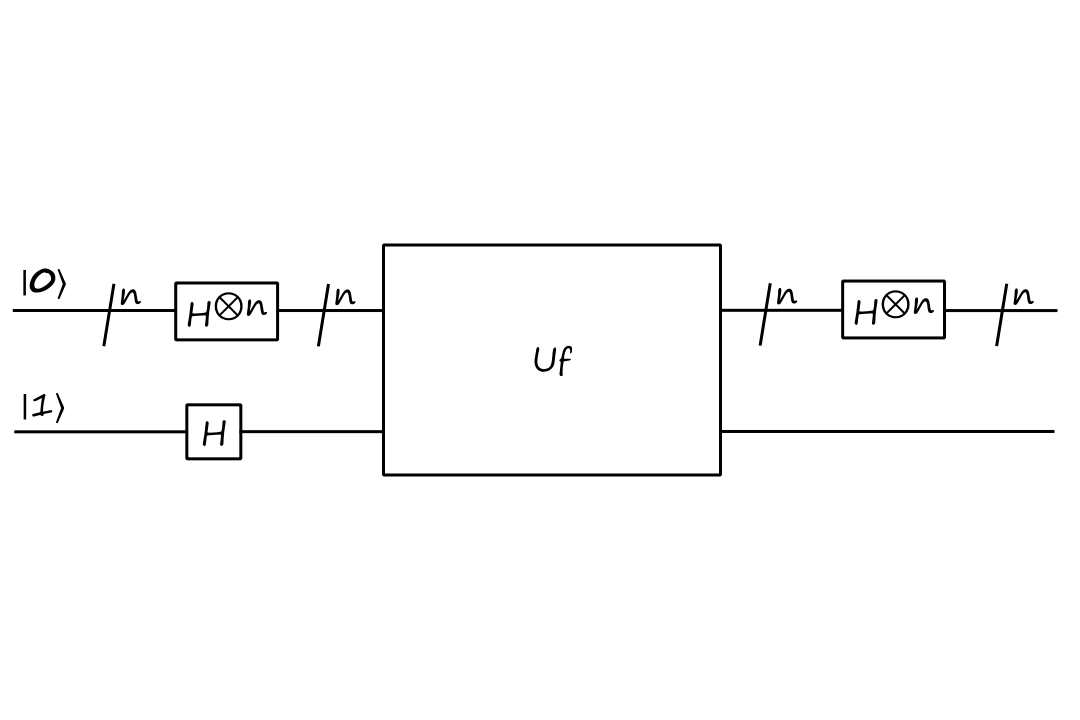
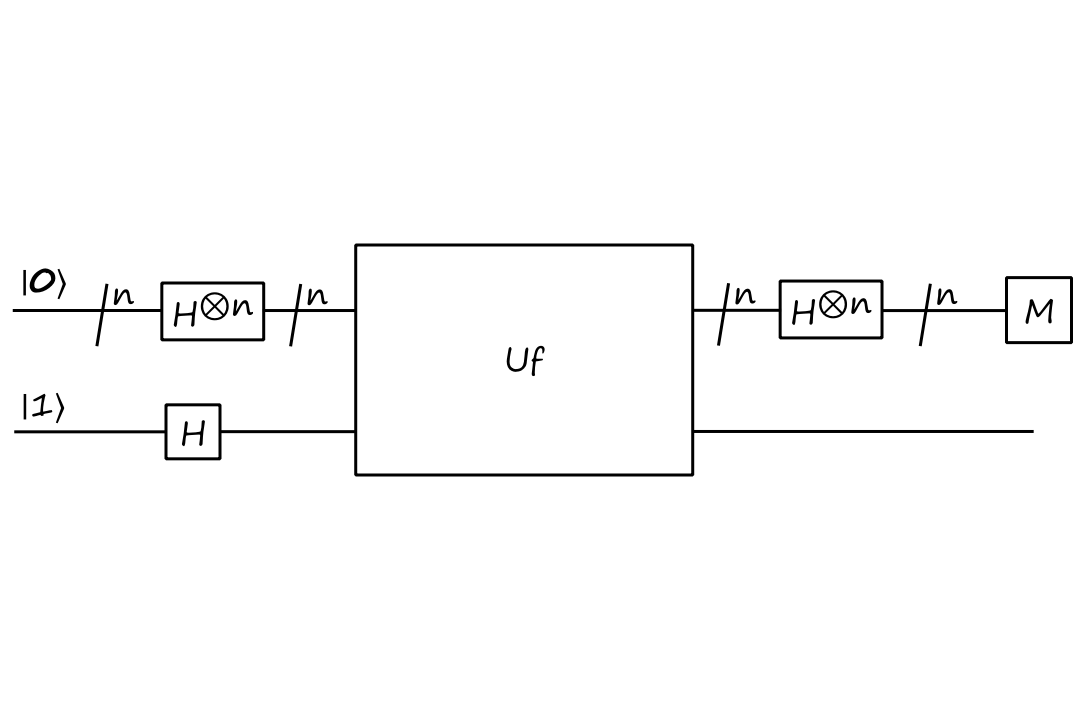
update quantum

diff --git a/projects/quantum.html b/projects/quantum.html
@@ -864,6 +864,7 @@
         <p>So `|psi:)` cannot be rewritten as the tensor product of the two subsystems.</p>
       </div>
       <h2 id="quantumalgorithms">Quantum Algorithms</h2>
+      <p>For this section, I'll be using a boxed `M` in the diagrams to represent the measurement operator.</p>
       <h3>Deutsch's Algorithm</h3>
       <p>Consider a function `f:{0,1}mapsto{0,1}`. We say that the function is balanced if `f(0)nef(1)` and constant if `f(0)=f(1)`. Suppose that we wanted to know for any given `f`, if it is balanced or constant.</p>
       <p>Of course, with classical computers, we can easily see if any function is balanced or constant. We simply evaluate `f(0)` and then `f(1)`. But this requires `f` to be evaluated twice. With quantum computers, we can do better.</p>
@@ -1259,9 +1260,18 @@
       </div>
       <p>So if `f` is balanced, the probability that the top `n` qubits collapse to state `|bb0:)` is `0`.</p>
       <p>How do we apply these results for the algorithm? If we measure the top `n` qubits and they're in the state `|bb0:)`, then `f` is constant. If they're in any state other than `|bb0:)`, then the function is balanced.</p>
+      <div class="ln-box">
+        <h3>Updated Identities</h3>
+        <ul>
+          <li><p>`|0:)oplusf(a)-``|1:)oplus``f(a)=(-1)^(f(a))``(``|0:)-``|1:))`</p></li>
+          <li><p>`U_f``|x:)H``|1:)=``(-1)^(f(x))``|x:)H``|1:)`</p></li>
+          <li><p>`H^(otimesn)``|bb0:)=``1/sqrt(2^n)sum_(bbx in{0,1}^n)``|bbx:)`</p></li>
+          <li><p>`H^(otimesn)``|bbx:)=``1/sqrt(2^n)sum_(bbz in {0,1}^n)(-1)^((:bbx,bbz:))``|bbz:)`</p></li>
+        </ul>
+      </div>
       <h3>Simon's Algorithm</h3>
       <p>Moving away from constant and balanced functions, we'll now look at something different.</p>
-      <p>Let's consider a function `f:{0,1}^n mapsto {0,1}^n`. Suppose there exists a binary string `bbc=c_0c_1...c_(n-1)` such that for all strings `bbx,bby in {0,1}^n`, we have `f(bbx)=f(bby)` if and only if `bby=bbxoplusbbc`. The goal of Simon's algorithm is to find out what `bbc` is.</p>
+      <p>Let's consider a function `f:{0,1}^n mapsto {0,1}^n`. Suppose there exists a secret binary string `bbc=c_0c_1...c_(n-1)` such that for all strings `bbx,bby in {0,1}^n`, we have `f(bbx)=f(bby)` if and only if `bby=bbxoplusbbc`. The goal of Simon's algorithm is to find out what `bbc` is.</p>
       <p>Well, okay, what does this problem even mean in the first place? Let's look at an example with `n=2`.</p>
       <p>Suppose we're given these values in the table below. The rule is that all `bbx` entries that have the same `f(bbx)` values are related to each other.</p>
       <table class="table ln-center">
@@ -1288,7 +1298,9 @@
       </table>
       <p>So `00` and `10` are related to each other, and `01` and `11` are related to each other. The way they're related is that `00oplusbbc=10` and `01oplusbbc=11`. The goal is to find out what `bbc` is.</p>
       <div class="ln-box">
-        <p>In some problem instances, it may be possible that `bbc=0^n`. In this case, none of the `bbx` entries will be related to each other, i.e., all the `bbx` entries will have unique `f(bbx)` values.</p>
+        <p>In some problem instances, it may be possible that `bbc=0^n`. In these cases, none of the `bbx` entries will be related to each other, i.e., all the `bbx` entries will have unique `f(bbx)` values.</p>
+        <p>This is because `x_0x_1...x_(n-1)oplus00...0=x_0x_1...x_(n-1)`, i.e., it is impossible for a binary string to be `oplus` with `0^n` to get a different binary string.</p>
+        <p>In these cases, `f` would be a one-to-one function. In the other cases where `bbc!=0^n`, `f` would be a two-to-one function.</p>
       </div>
       <p>The oracle we'll be using for Simon's algorithm is</p>
       <div class="ln-center">
@@ -1297,7 +1309,91 @@
       <p>And the circuit for Simon's algorithm is</p>
       <div class="ln-center">
         <img class="img-fluid ln-image-small" src="../pictures/quantum/simon_2.png">
+      </div>
+      <p>Using the last two updated identities really makes things a lot easier here.</p>
+      <div class="ln-center">
         <p>`(H^(otimesn)otimesI)U_f``(H^(otimesn)otimesI)``|bb0bb0:)`</p>
+        <p>`=(H^(otimesn)otimesI)U_f``(``H^(otimesn)``|bb0:)``|bb0:))`</p>
+        <p>`=(H^(otimesn)otimesI)U_f``(``1/sqrt(2^n)sum_(bbx in {0,1}^n)``|bbx:)``|bb0:))`</p>
+        <p>`=(H^(otimesn)otimesI)``1/sqrt(2^n)sum_(bbx in {0,1}^n)``|bbx:)``|bb0oplusf(bbx):)`</p>
+        <p>`=(H^(otimesn)otimesI)``1/sqrt(2^n)sum_(bbx in {0,1}^n)``|bbx:)``|f(bbx):)`</p>
+        <p>`=1/sqrt(2^n)sum_(bbx in {0,1}^n)H^(otimesn)``|bbx:)``|f(bbx):)`</p>
+        <p>`=1/sqrt(2^n)sum_(bbx in {0,1}^n)1/sqrt(2^n)sum_(bbz in {0,1}^n)(-1)^((:bbx,bbz:))``|bbz:)``|f(bbx):)`</p>
+      </div>
+      <p>We're given that `f(bbx)=f(bbxoplusbbc)`. This means that the coefficient for `|bbz:)``|f(bbx):)` and the coefficient for `|bbz:)``|f(bbxoplusbbc):)` should be the same.</p>
+      <div class="ln-center">
+        <p>`(-1)^((:bbx,bbz:))=(-1)^((:bbxoplusbbc,bbz:))`</p>
+        <p>`(-1)^((:bbx,bbz:))=(-1)^((:bbx,bbz:)oplus(:bbc,bbz:))`</p>
+      </div>
+      <p>From this, we can see that the only way that the coefficients will be the same is if `(:bbc,bbz:)=0`. This means that when we measure the top qubits, the only results that are possible are the binary strings such that the inner product of that string with `bbc` is `0`.</p>
+      <p>Let's see Simon's algorithm in action with our `n=2` example.</p>
+      <table class="table ln-center">
+        <tr>
+          <th>`bbx`</th>
+          <th>`f(bbx)`</th>
+        </tr>
+        <tr>
+          <td>`00`</td>
+          <td>`00`</td>
+        </tr>
+        <tr>
+          <td>`01`</td>
+          <td>`11`</td>
+        </tr>
+        <tr>
+          <td>`10`</td>
+          <td>`00`</td>
+        </tr>
+        <tr>
+          <td>`11`</td>
+          <td>`11`</td>
+        </tr>
+      </table>
+      <div class="ln-center">
+        <p>`(H^(otimes2)otimesI)U_f``(H^(otimes2)otimesI)``|bb0bb0:)`</p>
+        <p>`=(H^(otimes2)otimesI)U_f``(``H^(otimes2)``|bb0:)``|bb0:))`</p>
+        <p>`=(H^(otimes2)otimesI)U_f``(``1/sqrt(2^2)sum_(bbx in {0,1}^2)``|bbx:)``|bb0:))`</p>
+        <p>`=(H^(otimes2)otimesI)U_f``(``1/sqrt(4)``(``|00:)otimes``|00:)+``|01:)otimes``|00:)+``|10:)otimes``|00:)+``|11:)otimes``|00:)))`</p>
+        <p>`=(H^(otimes2)otimesI)``1/sqrt(4)``(``|00:)otimes``|00oplusf(00):)+``|01:)otimes``|00oplusf(01):)+``|10:)otimes``|00oplusf(10):)+``|11:)otimes``|00oplusf(11):))`</p>
+        <p>`=(H^(otimes2)otimesI)``1/sqrt(4)``(``|00:)otimes``|f(00):)+``|01:)otimes``|f(01):)+``|10:)otimes``|f(10):)+``|11:)otimes``|f(11):))`</p>
+        <p>`=(H^(otimes2)otimesI)``1/sqrt(4)``(``|00:)otimes``|00:)+``|01:)otimes``|11:)+``|10:)otimes``|00:)+``|11:)otimes``|11:))`</p>
+        <p>`=1/sqrt(4)``(``H^(otimes2)``|00:)otimesI``|00:)+``H^(otimes2)``|01:)otimesI``|11:)+``H^(otimes2)``|10:)otimesI``|00:)+``H^(otimes2)``|11:)otimesI``|11:))`</p>
+        <p>`=1/sqrt(4)``(``1/sqrt(2^2)sum_(bbz in {0,1}^2}(-1)^((:00,bbz:))``|bbz:)otimes``|00:)`</p>
+        <p>`+1/sqrt(2^2)sum_(bbz in {0,1}^2}(-1)^((:01,bbz:))``|bbz:)otimes``|11:)`</p>
+        <p>`+1/sqrt(2^2)sum_(bbz in {0,1}^2}(-1)^((:10,bbz:))``|bbz:)otimes``|00:)`</p>
+        <p>`+1/sqrt(2^2)sum_(bbz in {0,1}^2}(-1)^((:11,bbz:))``|bbz:)otimes``|11:))`</p>
+        <p>`=1/2``(``1/2``(``(-1)^((:00,00:))``|00:)otimes``|00:)+``(-1)^((:00,01:))``|01:)otimes``|00:)+``(-1)^((:00,10:))``|10:)otimes``|00:)+``(-1)^((:00,11:))``|11:)otimes``|00:))`</p>
+        <p>`+1/2``(``(-1)^((:01,00:))``|00:)otimes``|11:)+``(-1)^((:01,01:))``|01:)otimes``|11:)+``(-1)^((:01,10:))``|10:)otimes``|11:)+``(-1)^((:01,11:))``|11:)otimes``|11:))`</p>
+        <p>`+1/2``(``(-1)^((:10,00:))``|00:)otimes``|00:)+``(-1)^((:10,01:))``|01:)otimes``|00:)+``(-1)^((:10,10:))``|10:)otimes``|00:)+``(-1)^((:10,11:))``|11:)otimes``|00:))`</p>
+        <p>`+1/2``(``(-1)^((:11,00:))``|00:)otimes``|11:)+``(-1)^((:11,01:))``|01:)otimes``|11:)+``(-1)^((:11,10:))``|10:)otimes``|11:)+``(-1)^((:11,11:))``|11:)otimes``|11:)))`</p>
+        <p>`=1/2``(``1/2``(``(+1)``|00:)otimes``|00:)+``(+1)``|01:)otimes``|00:)+``(+1)``|10:)otimes``|00:)+``(+1)``|11:)otimes``|00:))`</p>
+        <p>`+1/2``(``(+1)``|00:)otimes``|11:)+``(-1)``|01:)otimes``|11:)+``(+1)``|10:)otimes``|11:)+``(-1)``|11:)otimes``|11:))`</p>
+        <p>`+1/2``(``(+1)``|00:)otimes``|00:)+``(+1)``|01:)otimes``|00:)+``(-1)``|10:)otimes``|00:)+``(-1)``|11:)otimes``|00:))`</p>
+        <p>`+1/2``(``(+1)``|00:)otimes``|11:)+``(-1)``|01:)otimes``|11:)+``(-1)``|10:)otimes``|11:)+``(+1)``|11:)otimes``|11:)))`</p>
+        <p>`=1/8``(``(+2)``|00:)otimes``|00:)+``(+2)``|01:)otimes``|00:)+``(+2)``|00:)otimes``|11:)+``(-2)``|01:)otimes``|11:))`</p>
+        <p>`=1/4``(``|00:)otimes``|00:)+``|01:)otimes``|00:)+``|00:)otimes``|11:)+``|01:)otimes``|11:))`</p>
+      </div>
+      <p>At this point, if we were to measure the top 2 qubits, there is a `50%` chance that they'll collapse to `|00:)` or `|01:)`. (There's a `2/4` chance that the whole system collapses to `|00:)otimes``|00:)` or `|00:)otimes``|11:)`, and a `2/4` chance that the whole system collapses to `|01:)otimes``|00:)` or `|01:)otimes``|11:))`.)</p>
+      <p>Let's arbitrarily say that this time it collapses to `|00:)`. From analyzing the algorithm, we know that `(:00,bbc:)=0`. If we let `bbc=c_1c_2`, then we have</p>
+      <div class="ln-center">
+        <p>`(:00,bbc:)=(:00,c_1c_2:)=0`</p>
+        <p>`0*c_1+0*c_2=0`</p>
+      </div>
+      <p>There isn't enough information to determine what the values of `c_1,c_2` are (since they could both be `0` or `1`). So we need to run the algorithm again to (hopefully) get a different equation after measurement.</p>
+      <p>Let's say that on the second run of the algorithm, the top 2 qubits collapse to `|01:)`. Then we have</p>
+      <div class="ln-center">
+        <p>`(:01,bbc:)=(:01,c_1c_2:)=0`</p>
+        <p>`0*c_1+1*c_2=0`</p>
+      </div>
+      <p>Now we know for sure that `c_2=0`. It's not obvious from looking at these two equations alone, but we do, in fact, also know that `c_1!=0`. This comes from the note earlier in this section about one-to-one and two-to-one functions. This example is dealing with a two-to-one function, so `bbc!=00 implies c_1=1`.</p>
+      <p>So we have figured out that the secret binary string `bbc` is `10`. And we can confirm this.</p>
+      <p>Recall that `00` and `10` were related to each other by `00oplusbbc=10` since `f(00)=f(10)=00`.</p>
+      <div class="ln-center">
+        <p>`00oplus10=10`</p>
+      </div>
+      <p>Recall that `01` and `11` were related to each other by `01oplusbbc=11` since `f(01)=f(11)=11`.</p>
+      <div class="ln-center">
+        <p>`01oplus10=11`</p>
       </div>
     </div>
     <script src="https://code.jquery.com/jquery-3.3.1.slim.min.js" integrity="sha384-q8i/X+965DzO0rT7abK41JStQIAqVgRVzpbzo5smXKp4YfRvH+8abtTE1Pi6jizo" crossorigin="anonymous"></script>
